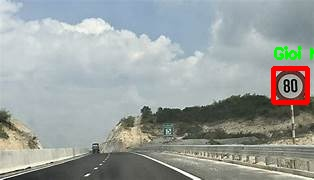
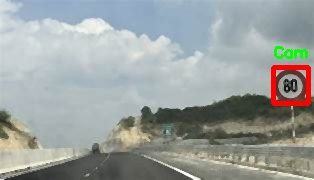
chinh file

diff --git a/backend/ai-service/ai_models/traffic_sign_detection/predict.py b/backend/ai-service/ai_models/traffic_sign_detection/predict.py
@@ -12,24 +12,56 @@ if str(AI_SERVICE_ROOT) not in sys.path:
     sys.path.insert(0, str(AI_SERVICE_ROOT))
 
 from preprocessing.image_processor import ImageProcessor
+from preprocessing.utils.visualizer import save_comparison
 
 
 def apply_preprocessing(
     frame,
     enable_preprocessing: bool = True,
     preprocessing_config: Optional[Dict[str, Any]] = None,
+    visualize: bool = False,
+    output_dir: str = "",
 ):
-    """Apply configurable preprocessing before traffic sign inference."""
+    """
+    Apply configurable preprocessing before traffic sign inference.
+    
+    Parameters:
+    -----------
+    frame : np.ndarray
+        Input image (BGR)
+    enable_preprocessing : bool
+        Whether to apply preprocessing
+    preprocessing_config : dict
+        Config with apply_resize=False (YOLO tự xử lý letterbox)
+    visualize : bool
+        Save before/after comparison image
+    output_dir : str
+        Directory to save comparison image
+    
+    Returns:
+    --------
+    Preprocessed image (BGR)
+    """
     if not enable_preprocessing or frame is None or frame.size == 0:
         return frame
 
+    frame_original = frame.copy()
     preprocessing_config = preprocessing_config or {"enable_preprocessing": True}
     processor = ImageProcessor(target_size=(frame.shape[1], frame.shape[0]))
-    return processor.apply_module_preprocessing(
+    frame_processed = processor.apply_module_preprocessing(
         frame,
         module_name="traffic_sign",
         config=preprocessing_config,
     )
+    
+    if visualize and output_dir:
+        os.makedirs(output_dir, exist_ok=True)
+        comparison_path = os.path.join(output_dir, "preprocessing_comparison.jpg")
+        save_comparison(frame_original, frame_processed, comparison_path, 
+                       title="Traffic Sign Preprocessing (Original | After Median Filter)")
+        print(f"[preprocessing] Visualized: {comparison_path}")
+    
+    return frame_processed
 
 def process_frame(frame, results, model_names, mapping_fix):
     """Hàm phụ trợ để vẽ bounding box và nhãn lên frame/ảnh"""
@@ -59,11 +91,13 @@ def infer_traffic_sign(model, frame, preprocessing_config: Optional[Dict[str, An
     """Run traffic-sign inference with a higher traffic-sign-only input size."""
     preprocessing_config = preprocessing_config or {}
     imgsz = int(preprocessing_config.get("imgsz", 960))
-    conf = float(preprocessing_config.get("conf", 0.1))
+    conf = float(preprocessing_config.get("conf", 0.15))   # tăng từ 0.1 lên 0.4
+    iou = float(preprocessing_config.get("iou", 0.45))     # thêm mới, giảm từ default 0.7
     agnostic_nms = bool(preprocessing_config.get("agnostic_nms", True))
     return model.predict(
         source=frame,
         conf=conf,
+        iou=iou,
         imgsz=imgsz,
         agnostic_nms=agnostic_nms,
         verbose=False,
@@ -131,16 +165,19 @@ def main():
                 "enable_preprocessing": True,
                 "apply_resize": False,
             },
+            visualize=True,
+            output_dir=output_dir,
         )
         results = infer_traffic_sign(
-            model,
-            img_cv,
-            preprocessing_config={
-                "imgsz": 960,
-                "conf": 0.1,
-                "agnostic_nms": True,
-            },
-        )
+    model,
+    img_cv,
+    preprocessing_config={
+        "imgsz": 960,
+        "conf": 0.15,      # sửa từ 0.1
+        "iou": 0.45,      # thêm mới
+        "agnostic_nms": True,
+    },
+)
         
         print("\n--- KẾT QUẢ PHÂN TÍCH BIỂN BÁO ---")
         for result in results:
@@ -191,14 +228,15 @@ def main():
                 },
             )
             results = infer_traffic_sign(
-                model,
-                frame,
-                preprocessing_config={
-                    "imgsz": 960,
-                    "conf": 0.1,
-                    "agnostic_nms": True,
-                },
-            )
+    model,
+    img_cv,
+    preprocessing_config={
+        "imgsz": 960,
+        "conf": 0.15,      # sửa từ 0.1
+        "iou": 0.45,      # thêm mới
+        "agnostic_nms": True,
+    },
+)
             frame = process_frame(frame, results, model.names, mapping_fix)
             out.write(frame)
             

diff --git a/backend/ai-service/preprocessing/utils/visualizer.py b/backend/ai-service/preprocessing/utils/visualizer.py
@@ -34,3 +34,28 @@ def save_image(image: np.ndarray, save_path: str) -> None:
     """Tạo thư mục nếu chưa có, lưu ảnh"""
     os.makedirs(os.path.dirname(save_path), exist_ok=True)
     cv2.imwrite(save_path, image)
+
+
+def save_comparison(original: np.ndarray, processed: np.ndarray,
+                    save_path: str, title: str = "Before | After") -> None:
+    """
+    Lưu ảnh so sánh before/after vào file (thay vì chỉ hiển thị).
+    Hữu dụng cho CI/CD hoặc khi không có display.
+    """
+    os.makedirs(os.path.dirname(save_path), exist_ok=True)
+    
+    # Tạo ảnh đôi (side-by-side)
+    if len(original.shape) == 3 and original.shape[2] == 3:
+        h, w = original.shape[:2]
+        combined = np.zeros((h, w * 2, 3), dtype=original.dtype)
+        combined[:, :w] = original
+        combined[:, w:] = processed if len(processed.shape) == 3 else cv2.cvtColor(processed, cv2.COLOR_GRAY2BGR)
+    else:
+        # Grayscale
+        h, w = original.shape[:2]
+        combined = np.zeros((h, w * 2), dtype=original.dtype)
+        combined[:, :w] = original if len(original.shape) == 2 else cv2.cvtColor(original, cv2.COLOR_BGR2GRAY)
+        combined[:, w:] = processed
+    
+    cv2.imwrite(save_path, combined)
+    print(f"[visualizer] Lưu ảnh so sánh: {save_path}")

diff --git a/backend/ai-service/preprocessing/image_processor.py b/backend/ai-service/preprocessing/image_processor.py
@@ -114,15 +114,19 @@ class ImageProcessor:
         self,
         frame: np.ndarray,
         target_size: Optional[Tuple[int, int]] = None,
-        apply_resize: bool = True,
+        apply_resize: bool = False,
     ) -> np.ndarray:
         """
-        BGR → CLAHE mạnh hơn (clip_limit=3.0) → BGR
-        Dùng cho: YOLOv11 traffic sign — cần contrast cao để phân biệt màu biển báo
+        BGR → median_filter (nhẹ) → BGR
+        ❌ BỎ CLAHE (thay đổi domain màu sắc — lệch so với data train)
+        ❌ BỎ resize bắt buộc (mất chi tiết biển báo, YOLO tự xử lý letterbox)
+        ✓ Chỉ áp median filter (kernel=3) để loại salt-and-pepper noise
+        ✓ Để YOLO tự resize ảnh lên imgsz=960 → đúng domain train
+        Dùng cho: YOLOv11 traffic sign (imgsz=960) — giữ nguyên domain train
         """
-        if apply_resize:
-            frame = self.resize(frame, size=target_size)
-        return clahe(frame, clip_limit=3.0)
+        # Không resize — YOLO xử lý letterbox padding tự động
+        # Chỉ loại nhiễu hạt nhẹ (salt-and-pepper từ camera)
+        return median_filter(frame, kernel_size=3)
 
     def preprocess_for_tracking(self, frame: np.ndarray) -> np.ndarray:
         """

diff --git a/main.py b/main.py
@@ -78,11 +78,14 @@ class TrafficSignVision:
         frame_for_inference = module.apply_preprocessing(
             frame,
             enable_preprocessing=self.enable_preprocessing,
-            preprocessing_config={"enable_preprocessing": True},
+            preprocessing_config={
+                "enable_preprocessing": True,
+                "apply_resize": False,  # ✓ YOLO tự xử lý letterbox
+            },
         )
         results = self.model.predict(
             source=frame_for_inference,
-            conf=0.1,
+            conf=0.15,
             agnostic_nms=True,
             verbose=False,
         )